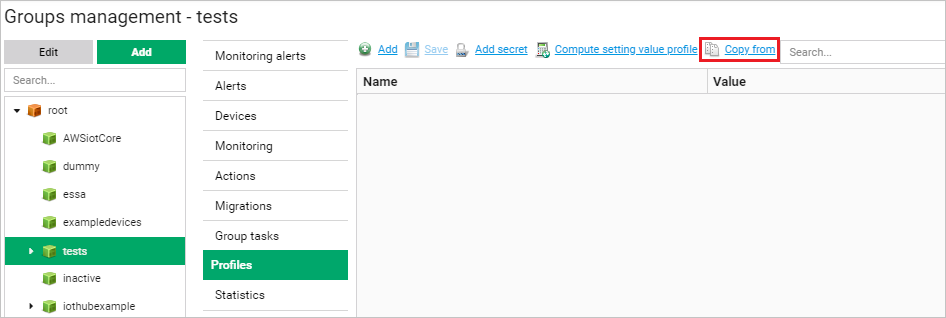
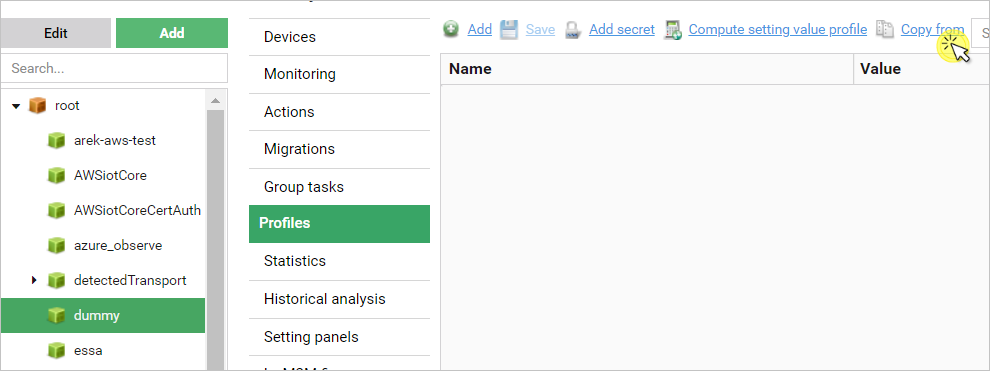
draft_2

Changed region(s): [[0.0, 0.0283, 1.0, 1.0]]

diff --git a/docs/AWS_Integration_Guide/Configuring_AWS_integration.md b/docs/AWS_Integration_Guide/Configuring_AWS_integration.md
@@ -5,8 +5,10 @@ Follow this section to integrate your AWS services with Coiote DM.
 ## Prerequisites
 
 - An active AWS subscription with access to IoT Core, CloudFormation, CloudWatch, Lambda and Secrets Manager in supported regions.
-- Installed [AWS CLI](https://docs.aws.amazon.com/cli/latest/userguide/getting-started-install.html)
+- Installed [AWS CLI](https://docs.aws.amazon.com/cli/latest/userguide/getting-started-install.html).
 - A Coiote DM user account with the **awsiottenant** role.
+    !!! important
+        It's recommended to create a Coiote DM user
 
 ## Supported regions
 
@@ -54,11 +56,11 @@ Then follow the steps below:
             - In the **Actions** field, select **Add new task**.
               ![Copy task pop-up](images/copy_task_popup.png "Copy task pop-up")
             - Repeat the action for the remaining five tasks.
-        - Migrate all the five setting values that have the **AWS** prefix in their task name:
+        - Migrate the `AWSdataPlaneEndpointAddress` setting value:
             - Select your custom integration group and go to **Profiles**, then select **Copy from**.
               ![Copy setting values](images/copy_svs.png "Copy setting values")
-            - In the pop-up window, click **Select group** and select the **AWSiotCore** group.
-            - Pick all the five **AWS** setting values from the list by checking them in the **Selected** column, then click **Copy**.
+            - In the pop-up window, click **Select group** and select the **AWSiotCoreCertAuth** group.
+            - Pick the `AWSdataPlaneEndpointAddress` setting value from the list by checking it in the **Selected** column, then click **Copy**.
               ![Copy setting values pop-up](images/copy_sv_popup.png "Copy setting values pop-up")
 2. Enter your AWS Endpoint Name in Coiote DM:
     - Go to **Device groups**, select your custom integration group (or the **AWSiotCoreCertAuth** group, depending on the previous step) and go to **Profiles**. Complete the **AWS** setting value:
@@ -75,23 +77,31 @@ Then follow the steps below:
 
 ## Add AWS resources using the integration repository
 
+!!! important
+    To complete this step, make sure you have the appropriate AWS permissions to enter the CloudFormation service and create a stack ([for details, see the AWS CloudFormation User Guide](https://docs.aws.amazon.com/AWSCloudFormation/latest/UserGuide/using-iam-template.html#using-iam-template-actions)).
+
 To add the resources needed for the integration to your AWS services:
 
-1. Go to the AWS Console page (<https://console.aws.amazon.com/console/home>) and sign in. Make sure that you are in the right region. From the list of services, select **CloudFormation** .
-2. Create a new stack. Use the template of Amazon S3 URL from below and change placeholders `[REGION-NAME]` to the one you use and is [supported](#supported-regions).
-
-       https://coiote-aws-int-[REGION-NAME].s3.[REGION-NAME].amazonaws.com/coiote-aws-integration-cf-template.json
-
+0. Go to the AWS Console page (<https://console.aws.amazon.com/console/home>) and sign in. Make sure that you are in the right region. From the list of services, select **CloudFormation** .
+0. Create a new stack. Use the template of Amazon S3 URL from below and change placeholders `[REGION-NAME]` to the one you use and is [supported](#supported-regions).
+```       
+https://coiote-aws-int-[REGION-NAME].s3.[REGION-NAME].amazonaws.com/coiote-aws-integration-cf-template.json
+```
    ![Choose template file](images/choose_template_s3.png "Choose template file")
-4. Choose a name for the stack and provide the parameters:
-   - **coioteDMrestUsername** - username of the created CoioteDM account.
-   - **coioteDMrestPassword** - password of the created CoioteDM account.
-   - **coioteDMrestUri** - URL address and port of your Coiote DM installation.
-   ![Change stack parameters](images/stack_params.png "Change stack name and parameters")
-5. Finalize configuring the stack and wait for its creation to finish.
-6. Once the stack is created successfully, the devices in your integration group will be automatically migrated to the AWS IoT Core.
-7. To check if your integration works correctly, go to AWS IoT Core, and from the menu, select **Manage** > **Things**, then see if your devices are listed as in here:
-![Migrated things](images/migrated_things.png "Migrated things")
+0. Choose a name for the stack and provide the parameters:
+    - **coioteDMrestUsername** - username of the created CoioteDM account.
+    - **coioteDMrestPassword** - password of the created CoioteDM account.
+    - **coioteDMrestUri** - URL address and port of your Coiote DM installation.
+
+        !!! note
+            For some installations, port is not required. If you don't know what port to choose, contact our support.
+
+        ![Change stack parameters](images/stack_params.png "Change stack name and parameters")
+
+0. Finalize configuring the stack and wait for its creation to finish.
+0. Once the stack is created successfully, the devices in your integration group will be automatically migrated to the AWS IoT Core.
+0. To check if your integration works correctly, go to AWS IoT Core, and from the menu, select **Manage** > **Things**, then see if your devices are listed as in here:
+    ![Migrated things](images/migrated_things.png "Migrated things")
 
 ## Next steps
 

diff --git a/docs/AWS_Integration_Guide/Device_operations/Operation_types.md b/docs/AWS_Integration_Guide/Device_operations/Operation_types.md
@@ -42,7 +42,7 @@ To send a request for a READ operation to a device:
          }
         ```
 
-5. Click **Save**.
+5. Click **Update**.
 6. To see the operation results, check the `reported` section of the **operation** Shadow. An example response looks like this:
 
     ???+ READ_result
